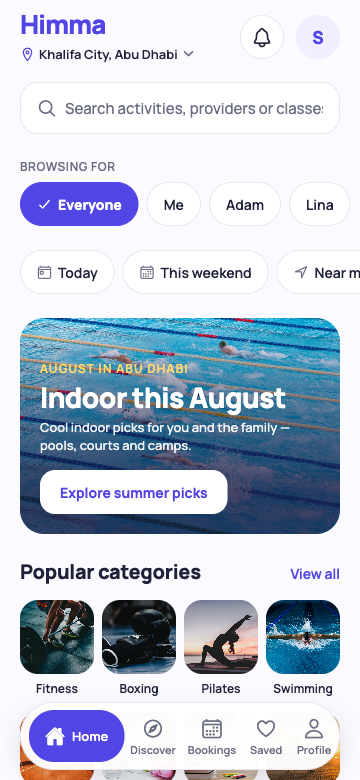
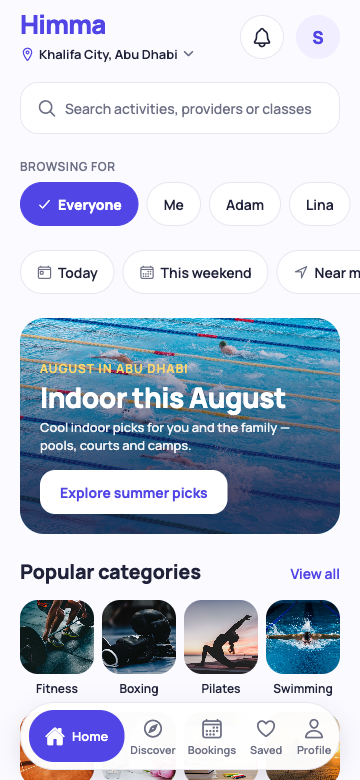
docs+fix: native compatibility rules, approval levels, dependency notes
- Fix 360-pt search placeholder clipping via dedicated searchInput type token
- Add docs/12_NATIVE_MOBILE_COMPATIBILITY.md (native-safe rules, safe areas,
  Dynamic Type, keyboard, navigation, gestures, perf, integrations, test
  matrix, three approval levels; Home status recorded)
- Add docs/13_DEPENDENCY_ADVISORIES.md (11 moderate advisories all root to
  uuid<11.1.1 in Expo build tooling; no forced upgrades)
- CLAUDE.md: permanent native-compatibility rule and approval-level reporting
- README.md: read order and priority updated for docs 11-13

Changed region(s): [[0.1833, 0.1231, 0.8861, 0.1538]]

diff --git a/src/theme/typography.ts b/src/theme/typography.ts
@@ -17,5 +17,7 @@ export const typography = {
   caption: { fontFamily: fontFamily.semiBold, fontSize: 12, lineHeight: 16 },
   price: { fontFamily: fontFamily.extraBold, fontSize: 15, lineHeight: 20 },
   chip: { fontFamily: fontFamily.semiBold, fontSize: 14, lineHeight: 18 },
+  /** Slightly smaller than body so the full placeholder fits 360-pt phones. */
+  searchInput: { fontFamily: fontFamily.medium, fontSize: 14, lineHeight: 19 },
   dockLabel: { fontFamily: fontFamily.semiBold, fontSize: 11, lineHeight: 14 },
 } as const;

diff --git a/src/components/domain/search-bar.tsx b/src/components/domain/search-bar.tsx
@@ -39,7 +39,7 @@ const styles = StyleSheet.create({
   },
   input: {
     flex: 1,
-    ...typography.body,
+    ...typography.searchInput,
     color: colors.text.primary,
     paddingVertical: 0,
   },

diff --git a/docs/12_NATIVE_MOBILE_COMPATIBILITY.md b/docs/12_NATIVE_MOBILE_COMPATIBILITY.md
@@ -1,0 +1,105 @@
+# 12 — Native Mobile Compatibility Rules
+
+Himma is an iOS and Android phone app. Expo web exists only as an additional preview and automated-review surface. Every screen and shared component must be native-safe from its first implementation, even when it is first reviewed in a browser.
+
+These rules are permanent and apply to every milestone.
+
+## 1. Approval levels
+
+Every screen moves through three distinct approval levels. Never conflate them.
+
+1. **Design approved** — the product owner has approved the screen specification (hierarchy, behavior, visual direction).
+2. **Frontend implementation approved** — the product owner has approved the implemented screen after web-based visual review and automated checks.
+3. **Native validated** — the implemented screen has been verified in an iOS Simulator or on a physical iPhone (and ideally an Android device or emulator). A screen must never be reported as native validated on the strength of web review alone.
+
+Current status of Home (HMA-004), as of 2026-08-02:
+
+| Level | Status |
+|---|---|
+| Design approved | ✅ Approved |
+| Frontend implementation approved | ✅ Provisionally approved; 360-pt search clipping fixed same day, owner confirmation pending |
+| Native validated | ⏳ Pending — no full Xcode on the development machine yet |
+
+When Xcode becomes available, run the native pass for Home before or alongside the next screen's native pass.
+
+## 2. Platform API rules
+
+- Use React Native and Expo-SDK-compatible APIs only. No bare-native modules without an Expo config plugin and explicit justification.
+- No DOM APIs (`document`, `window`, `localStorage`, `navigator`), no CSS-only behavior, no browser-only libraries in app code.
+- No hover-dependent interactions. Hover may enhance the web preview but nothing may require it.
+- Persistent state, when it arrives, uses native-safe storage (e.g. `expo-secure-store`, AsyncStorage), never browser storage.
+- `Platform.select` / `.ios.tsx` / `.android.tsx` / `.web.tsx` splits are allowed but must default to correct native behavior.
+
+## 3. Safe areas
+
+- Every screen respects top and bottom safe-area insets via `react-native-safe-area-context` (`SafeAreaView` edges or `useSafeAreaInsets`).
+- Support notches, Dynamic Island, and the iOS home indicator: nothing interactive within the inset regions.
+- The floating dock must never use a fixed bottom offset. Its position is always `insets.bottom + dockTokens.safeAreaOffset` (already implemented in `src/components/domain/floating-dock.tsx`).
+- Scroll content adds bottom padding derived from dock tokens plus insets so no content is trapped behind the dock.
+- Bottom sheets pad their content by `insets.bottom`.
+
+## 4. Typography and Dynamic Type
+
+- All text styles come from `src/theme/typography.ts` tokens. No ad-hoc font sizes in screens.
+- Support iOS Dynamic Type and Android font scaling: layouts must tolerate larger text without clipping or overlap. Do not set `allowFontScaling={false}` as a fix; fix the layout instead.
+- Where unbounded scaling would genuinely break a dense control (e.g. dock labels), cap with `maxFontSizeMultiplier` (≈1.3–1.5) rather than disabling scaling.
+- Tolerate font-metric differences across iOS, Android, and web: never rely on exact pixel text widths; use `numberOfLines`, flexible containers, and min-heights.
+- Manrope loads through `expo-font`; until fonts load, the splash screen stays visible (no unstyled-text flash).
+
+## 5. Keyboard handling
+
+- Any screen with text input must plan keyboard avoidance (`KeyboardAvoidingView` with platform-appropriate `behavior`, or an equivalent) so focused inputs are never hidden.
+- Inputs define `returnKeyType` and sensible focus order; multi-field forms move focus on submit.
+- Tapping outside an input dismisses the keyboard where that matches platform convention (`keyboardShouldPersistTaps="handled"` on scroll views with inputs).
+- The floating dock hides or yields during focused transactional flows (docs/04 §2); keyboard appearance must not push the dock over content.
+
+## 6. Navigation, sheets, and back behavior
+
+- Expo Router is the only navigation system. No web-style routing assumptions; deep links map through the router.
+- Android hardware/gesture back must always do something sensible: close the top-most sheet or modal first, then navigate back.
+- Modals and bottom sheets use native-appropriate presentation (`Modal`, router modals) and respect `onRequestClose` for Android back.
+- iOS swipe-back stays enabled on pushed screens unless a flow explicitly requires confirmation before leaving.
+- Full-screen states are used only when the task requires them (docs/04 §3).
+
+## 7. Touch and gesture standards
+
+- All interactions use `Pressable`-based components (`PressableFeedback`) — never web-only click handling.
+- Touch targets are at least 44 × 44 points; smaller glyphs get `hitSlop`.
+- Press feedback is subtle (dim, small scale) and respects the OS reduce-motion setting via `useReducedMotion`.
+- Horizontal carousels must scroll correctly inside vertical scroll views on native: horizontal `ScrollView`/`FlatList` with `showsHorizontalScrollIndicator={false}`, no gesture traps. Verify on device that vertical scrolling does not fight the carousels.
+- No gesture-only functionality without a visible alternative.
+
+## 8. Images and performance
+
+- Use `expo-image` with local assets where practical; every image has a visible fallback (`AppImage`).
+- Ship appropriately sized assets (demo set is ~900 px wide); avoid multi-megabyte images in lists.
+- Carousels with many items should move to `FlatList` when content grows beyond the current small mock sets.
+- Keep mock data deterministic — no per-render randomness (also required for review reproducibility).
+- Avoid unnecessary re-renders: static token/style objects via `StyleSheet.create`, memoized lookups for hot paths.
+- Animations must be light, subtle, and disabled under reduced motion. No decorative long-running animation loops.
+
+## 9. Platform integration readiness
+
+Keep these future integrations possible; do not block them with architectural shortcuts:
+
+- **Sign in with Apple** (and Google) — auth screens represent these providers; real auth arrives with the backend.
+- **Apple Pay / Google Pay** — checkout UI represents them; the payment surface must not assume card-only flows.
+- **Calendar export** — confirmed bookings will offer Apple/Google calendar actions (docs/09 §13).
+- **Deep links** — the `himma` scheme is configured in `app.json`; new screens should have router paths that can become deep-link targets.
+- **Contextual permission prompts** — location, notifications, and calendar permissions are requested in context when the feature ships, never at app launch.
+
+## 10. Device and simulator test matrix
+
+Native validation for a screen means checking at minimum:
+
+| Surface | Target | Notes |
+|---|---|---|
+| iOS Simulator | iPhone 16/17 class (Dynamic Island) | Primary target ~390 × 844+ |
+| iOS Simulator | A smaller device (e.g. iPhone SE class) | Narrow width, no notch |
+| iOS | Larger text (Dynamic Type at ~135%) | Layout tolerance |
+| Android emulator or device | A ~360-dp-wide phone | Back gesture, font metrics |
+| Expo web (Playwright) | 390 × 844 and 360 × 780 | Automated regression only — never a substitute for native validation |
+
+Per screen, verify: safe areas, dock position, scroll + carousel gestures, keyboard behavior (if inputs), press feedback, text scaling, image loading, reduced motion.
+
+If Xcode or a simulator is unavailable, continue native-safe implementation and web review, and mark iOS validation as **pending** in the milestone report. Never claim native validation without having run the screen natively.

diff --git a/docs/13_DEPENDENCY_ADVISORIES.md b/docs/13_DEPENDENCY_ADVISORIES.md
@@ -1,0 +1,30 @@
+# 13 — Dependency Advisories and Hygiene
+
+Status as of 2026-08-02 (Expo SDK 57, `npm audit`).
+
+## Current advisories: 11 moderate, one root cause
+
+Every advisory reported by `npm audit` chains back to a single package:
+
+- **Root**: `uuid < 11.1.1` — [GHSA-w5hq-g745-h8pq](https://github.com/advisories/GHSA-w5hq-g745-h8pq), "Missing buffer bounds check in v3/v5/v6 when `buf` is provided". Severity: moderate.
+- **Path**: `uuid` ← `xcode` ← `@expo/config-plugins` ← `@expo/cli` / `@expo/config` / `@expo/metro-config` / `@expo/prebuild-config` / `expo-splash-screen` ← `expo`.
+
+## Assessment
+
+- These packages are **development- and build-time tooling** (Expo CLI, config plugins, prebuild). None of this code ships inside the customer app bundle.
+- The vulnerable `uuid` code path requires a caller-supplied buffer argument; the Expo tooling usage is not customer-input-driven.
+- Practical risk to the Himma frontend milestone: **low**. No customer data flows through the affected code.
+
+## Decision
+
+- **No forced upgrade.** `npm audit fix --force` would install a breaking `expo-splash-screen` major and downgrade/perturb the Expo SDK — a real regression risk for zero shipped-code benefit. Per product-owner instruction, forced dependency upgrades are not applied.
+- The advisory set is expected to clear upstream when Expo bumps `@expo/config-plugins`' transitive `xcode`/`uuid` pins. Re-check with `npm audit` at each Expo SDK upgrade and at each new milestone.
+- `@types/jest` is intentionally pinned to `29.5.14` to match `jest-expo`'s expectation (keeps `expo-doctor` at 20/20).
+
+## Hygiene rules going forward
+
+1. Run `npm audit` and `npx expo-doctor` at every milestone; record changes here.
+2. Never run `npm audit fix --force` on this repository without explicit product-owner approval.
+3. Prefer `npx expo install` (SDK-aligned versions) over raw `npm install` for runtime packages.
+4. New nontrivial dependencies require a written justification (docs/08 §18) and a note here if they carry advisories.
+5. Advisories in **shipped app code** (anything bundled into the binary) are treated as blockers, unlike build-tooling advisories, and reported to the product owner immediately.

diff --git a/CLAUDE.md b/CLAUDE.md
@@ -60,6 +60,20 @@ All of the following happen inside Himma:
 
 Do not design redirects to external providers to complete a purchase.
 
+## Native mobile compatibility (permanent rule)
+
+Himma is an iOS and Android phone app. Expo web is only a preview and automated-review surface.
+
+Every screen and shared component in every milestone must follow `docs/12_NATIVE_MOBILE_COMPATIBILITY.md`: React Native / Expo-compatible APIs only, safe-area insets top and bottom (notches, Dynamic Island, home indicator), dock position derived from safe-area insets (never fixed offsets), Dynamic Type and font-scaling tolerance, native Pressable interactions with ≥ 44 × 44 touch targets, no hover/DOM/browser-storage/CSS-only dependencies, keyboard avoidance on input screens, carousels that work inside native vertical scrolling, platform-appropriate navigation/sheets/modals/back behavior, and readiness for Sign in with Apple, Apple Pay, calendar export, deep links, and contextual permission prompts.
+
+Report every screen against the three approval levels defined in `docs/12`:
+
+1. Design approved
+2. Frontend implementation approved
+3. Native validated
+
+Never claim "native validated" without an iOS Simulator or physical-iPhone check. If Xcode is unavailable, implement native-safe, review on web, and mark native validation as pending.
+
 ## Mobile and design rules
 
 - Primary target: approximately 390 × 844 logical pixels

diff --git a/README.md b/README.md
@@ -46,8 +46,11 @@ Claude must read these files in order before changing code:
 7. `docs/07_PROVISIONAL_BRAND_SYSTEM.md`
 8. `docs/08_FRONTEND_ENGINEERING_CONTRACT.md`
 9. `docs/09_OPEN_DECISIONS.md`
-10. `CLAUDE.md`
-11. `FIRST_PROMPT.md`
+10. `docs/11_HOME_SCREEN_SPEC.md`
+11. `docs/12_NATIVE_MOBILE_COMPATIBILITY.md`
+12. `docs/13_DEPENDENCY_ADVISORIES.md`
+13. `CLAUDE.md`
+14. `FIRST_PROMPT.md`
 
 ## Starting the project
 
@@ -70,6 +73,8 @@ When documents appear to conflict, use this priority:
 7. `docs/07_PROVISIONAL_BRAND_SYSTEM.md`
 8. `docs/08_FRONTEND_ENGINEERING_CONTRACT.md`
 9. `docs/09_OPEN_DECISIONS.md`
-10. Task-specific prompts
+10. `docs/12_NATIVE_MOBILE_COMPATIBILITY.md`
+11. Approved screen specifications (`docs/11_HOME_SCREEN_SPEC.md` and successors)
+12. Task-specific prompts
 
 Claude must not silently resolve a real contradiction. It must report the conflict and propose the smallest safe resolution.
